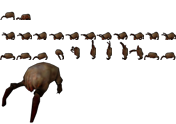
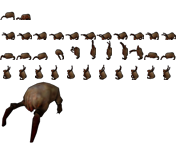
Headcrabs können nun klett0rn. :D

Changed region(s): [[0.0, 0.2177, 1.0, 1.0], [0.0, 0.0726, 0.1989, 0.1694]]

diff --git a/cmcrepos/HalfLife.c4d/Living.c4d/Headcrab.c4d/Script.c b/cmcrepos/HalfLife.c4d/Living.c4d/Headcrab.c4d/Script.c
@@ -227,14 +227,14 @@ protected func ContactRight()
 /* Aktionen */
 public func DoJump()
 {
-  if(((GetAction() ne "Walk") && (GetAction() ne "Stand")) || GetEffect("IntAttackDelay", this())) return();
-  SetAction("PrepareJump");
+  if(((GetAction() ne "Walk") && (GetAction() ne "Stand")) || GetEffect("IntAttackDelay", this())) return(0);
+  return(SetAction("PrepareJump"));
 }
 
 public func DoAttackJump(object pTarget)
 {
-  if(((GetAction() ne "Walk") && (GetAction() ne "Stand")) || GetEffect("IntAttackDelay", this())) return();
-  SetAction("PrepareAttackJump",pTarget);
+  if(((GetAction() ne "Walk") && (GetAction() ne "Stand")) || GetEffect("IntAttackDelay", this())) return(0);
+  return(SetAction("PrepareAttackJump",pTarget));
 }
 
 private func ExecJump()
@@ -362,9 +362,9 @@ protected func ContainedUp(object caller)
 protected func ControlUp()
 {
   [$TxtMovement$]
-  if(!GetPlrCoreJumpAndRunControl(GetController()))
-    DoJump();
-  return(1);
+  if(DoJump())
+    return(1);
+  return(0);
 }
 
 protected func ContainedDown(object caller)
